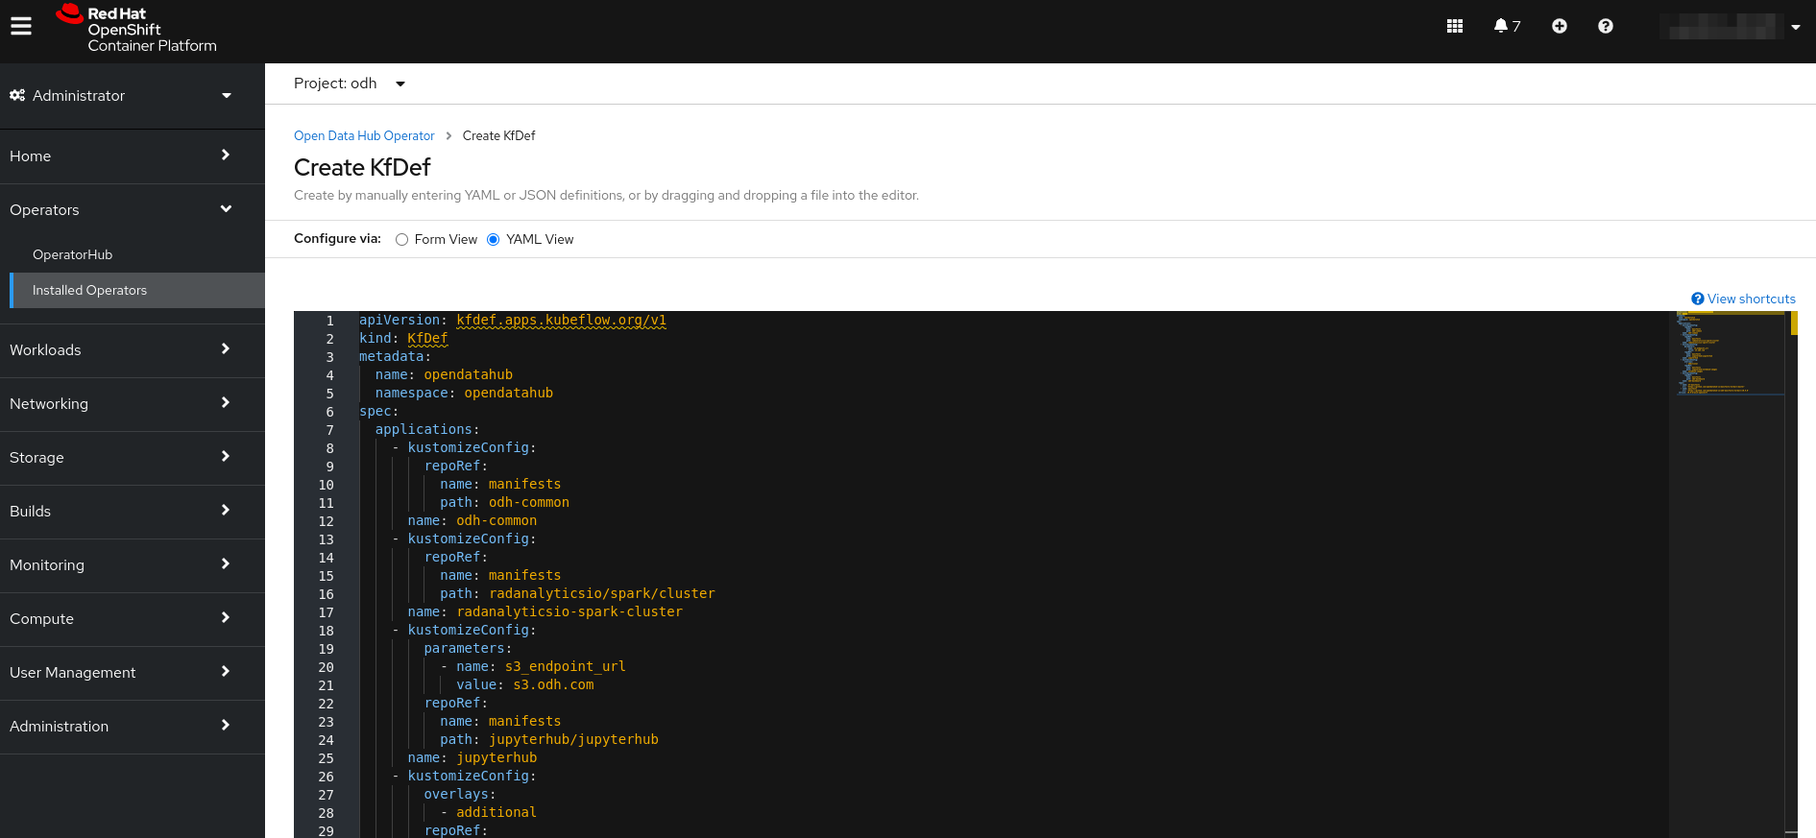
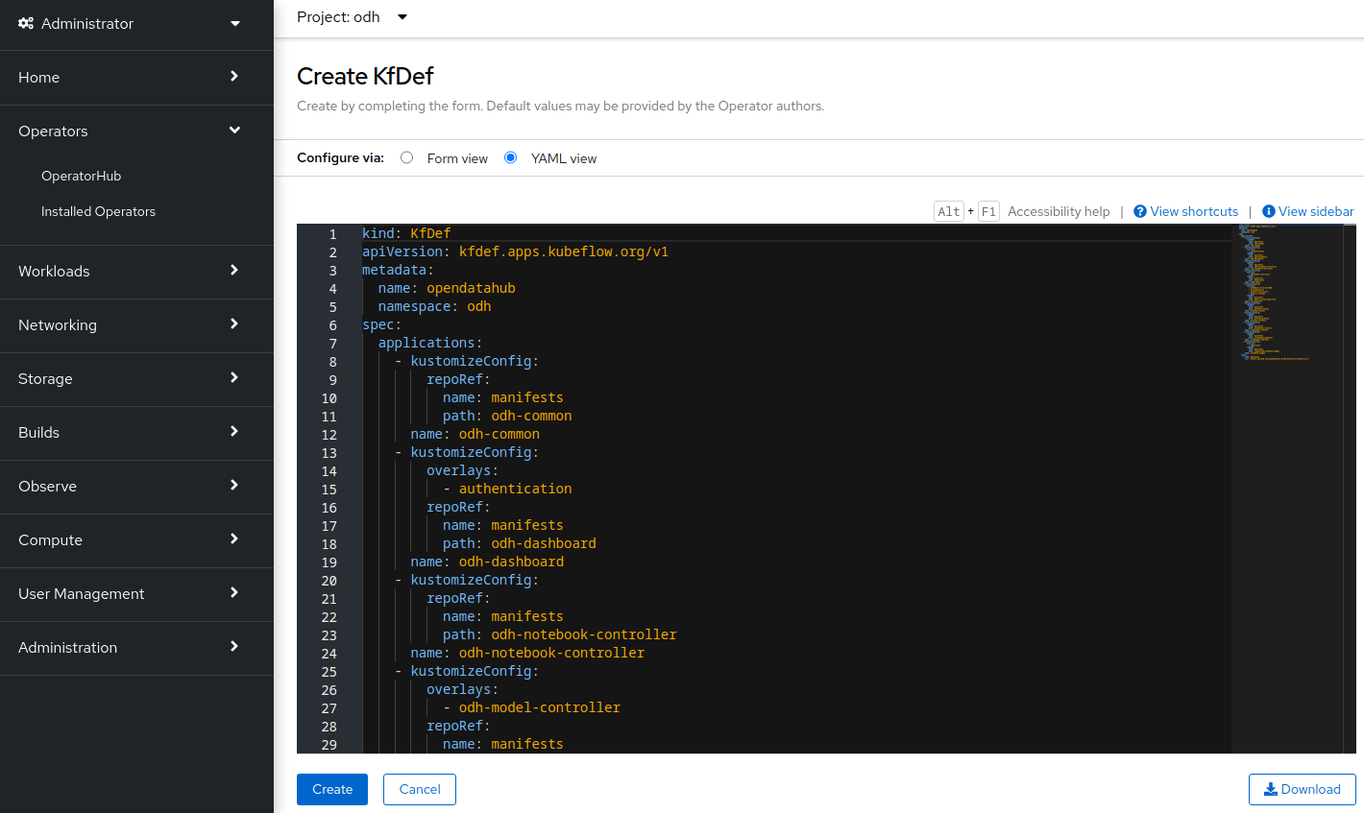
Update documentation for ODH Core release

diff --git a/pages/docs/architecture.md b/pages/docs/architecture.md
@@ -16,9 +16,9 @@ The first phase of an AI workflow is initiated by Data Engineers that acquire th
 
 **Red Hat® OpenShift®  Container Platform**  is the leading Kubernetes based container platform providing multiple functionalities for successfully running distributed AI workloads. Functionalities such as high availability and self-healing, scaling, security, resource management and operator framework are essential to successfully providing AI/ML services. OpenShift also also supports specialized hardware such as GPUs.
 
-**Open Data Hub**(ODH) currently provides services on OpenShift for AI data services such as data storage and ingestion/transformation. For data storage and availability, ODH provides [Ceph](https://ceph.com/), with multi protocol support including block, file and S3 object API support, both for persistent storage within the containers and as a scalable object storage data lake that AI applications can store and access data from . Rook operator can be used to easily deploy and integrate Ceph into the OpenShift and ODH ecosystem
+**Open Data Hub**(ODH) currently provides services on OpenShift for AI data services such as data storage and ingestion/transformation. For data storage and availability, ODH integrates seamlessly with Object Storage provider ([OpenShift Data Foundation](https://www.redhat.com/en/technologies/cloud-computing/openshift-data-foundation), [Minio](https://min.io), AWS S3, ...) that exists in the [Hybrid Cloud](https://www.redhat.com/en/topics/cloud-computing/what-is-hybrid-cloud) or on-premise. 
 
-Open Data Hub also provides services for model creation, training and validation. Apache Spark™([https://spark.apache.org/](https://spark.apache.org/)) operator is provided as part of ODH installation for distributed data ingestion, transformation and model functionalities running natively on OpenShift. For the Data Scientist development environment, ODH provides Jupyter Hub and Jupyter Notebook images running natively distributed on OpenShift. ODH roadmap includes tools for monitoring services as discussed in the section below. These tools will include the ability for natively monitoring AI services and served models on OpenShift using Prometheus and Grafana.
+Open Data Hub also provides services for model creation, training and validation. For the Data Scientist development environment, ODH provides Jupyter Notebook images running natively distributed on OpenShift. ODH roadmap includes tools for monitoring services as discussed in the section below. These tools will include the ability for natively monitoring AI services and served models on OpenShift using Prometheus and Grafana.
 
 ##  Open Data Hub Platform
 
@@ -28,14 +28,12 @@ Open Data Hub platform is a centralized self-service solution for analytic and d
 
 #### End-to-End Considerations
 
-ODH project’s main goal is to provide an open source end-to-end AI platform on OpenShift Container Platform that is equipped to run large AI/ML distributed workloads. As discussed earlier an end-to-end AI platform includes all phases of AI processing starting from data ingestion all the way to production AI/ML hosting and monitoring. There are multiple user personas for this platform that work on different phases. Figure 2  displays a high level architecture diagram of ODH as an end-to-end AI platform running on OpenShift Container platform.
+ODH project’s main goal is to provide an open source end-to-end AI platform on OpenShift Container Platform that is equipped to run large AI/ML distributed workloads. As discussed earlier an end-to-end AI platform includes all phases of AI processing starting from data ingestion all the way to production AI/ML hosting and monitoring. There are multiple user personas for this platform that work on different phases.
 
 
 
 All the tools and components listed below are currently being used as part of Red Hat’s internal ODH platform cluster. This internal cluster is utilized by multiple internal teams of data scientists running AI/ML workloads for functions such as Anomaly Detection and Natural Language Processing. A subset of these components and tools are included in the ODH release available today and the rest are scheduled to be integrated in future releases as described in the roadmap section below. Support for each component is provided by the source entity, for example Red Hat supports Red Hat components such as OpenShift Container Platform and Ceph while open source communities support Seldon, Jupyterhub, Prometheus and so on.
 
-**Figure 2: End-to-End Reference AI Architecture on OpenShift**
-![End-to-End Reference AI Architecture on OpenShift]({{ '/assets/img/pages/arch/figure-2.png' | prepend: site.baseurl }} "End-to-End Reference AI Architecture on OpenShift")
 
 
 **Data in Motion** is essential in today's enterprise backend networks where data resides in multiple locations, especially to support data stored in legacy systems. Hybrid Cloud architectures also require sharing data between different cloud systems. Tools such as Red Hat AMQ Streams, Kafka and Logstash provide robust and scalable data transfer capabilities native to the OpenShift platform. Data Engineers can use these tools to transfer required data from multiple sources.
@@ -83,23 +81,17 @@ All the tools and components listed below are currently being used as part of Re
 The ODH platform is installed on OpenShift as a native operator and is available on the OperatorHub.io. The operator framework ([https://operatorhub.io/getting-started](https://operatorhub.io/getting-started)) is an open source toolkit that provides effective, scalable and automated native application management. Operators manage custom resources that provide specific cluster wide functionalities. The ODH operator manages the ODH platform AI/ML services cluster-wide. Some of the components within the ODH platform are also operators such as Apache Spark™. Currently ,when installing the ODH operator it includes the following components: Ceph, Apache Spark, Jupyterhub, Prometheus and Grafana.
 
 
-**Apache Spark™** operator is an open source operator implementation of Apache Spark™. It is developed as part of the Radanalytics community ([https://radanalytics.io/](https://radanalytics.io/)) to provide distributed Spark cluster workloads on OpenShift. This implementation creates a Spark cluster with master and worker/executor processes. Applications send tasks to executors using the SparkContext and these executors run the tasks on the cluster nodes they are assigned to. Distributed parallel execution as provided by Spark clusters are typical and essential for the success of AI/ML workloads.
-
-
-**JupyterHub** ([https://jupyter.org/hub](https://jupyter.org/hub)) is an open source multi-user notebook platform that ODH provides with multiple notebook image streams that incorporate embedded features such as Spark libraries and connectors. JupyterHub provides many features such as multi-user experience for data scientists allowing them to run notebooks in their own workspaces. Authentication can also be customized as a pluggable component to support authentication protocols such as OAuth. Data scientists can use familiar tools such as Jupyter notebooks for developing complex algorithms and models. Frameworks such as numpy, scikit-learn, Tensorflow and more are available for use.
+**Jupyter Notebook w/ JupyterLab UI** ([https://jupyter.org/hub](https://jupyter.org)) is an open source notebook platform that ODH provides with multiple notebook image streams that incorporate embedded AI/ML libraries. Jupyter Notebooks also provide many features such as for data scientists allowing them to run notebooks in their own workspaces in a multi-tenant environment. Authentication can also be customized as a pluggable component to support authentication protocols such as OAuth. Data scientists can use familiar tools such as Jupyter notebooks for developing complex algorithms and models. Frameworks such as Tensorflow, PyTorch and more are available for use.
 
 
 **Prometheus** ([https://prometheus.io/](https://prometheus.io/)) is an open source monitoring and alerting tool that is widely adopted across many enterprises. Prometheus can be configured to monitor targets by scraping or pulling metrics from the target’s HTTP endpoint and storing the metric name and a set of key-value pairs in a time series database. For graphing or querying this data, Prometheus provides a web portal with rudimentary options to list and graph the data. It also provides an endpoint for more powerful visualization tools such as Grafana to query the data and create graphs. An Alert Manager is also available to create alert rules to produce alerts on specific metric conditions.
 
 **Grafana** ([https://grafana.com/](https://grafana.com/)) is an open source tool for data visualization and monitoring. Data sources such as Prometheus can be added to Grafana for metrics collection. Users create Dashboards that include comprehensive  graphs or plots of specific metrics. It includes powerful visualization capabilities for graphs, tables, and heatmaps. Ready-made dashboards for different data types and sources are also available giving Grafana users a head start. It also has support for a wide variety of plugins so that users can incorporate community-powered visualisation tools for things such as scatter plots or pie charts.
 
-**Argo** ([https://argoproj.github.io/](https://argoproj.github.io/)) is an open source container-native workflow engine for orchestrating parallel jobs on Kubernetes.  It is useful for defining workflows using containers, running computer intensive jobs, and running CI/CD pipelines natively on Kubernetes.
 
-**Apache Kafka** ([https://kafka.apache.org/](https://kafka.apache.org/) is a distributed streaming platform for publishing and subscribing records as well as storing and processing streams of records.  It is deployed on ODH using **Strimzi** ([https://strimzi.io](https://strimzi.io)) a community supported operator.
 
 **Seldon** ([https://www.seldon.io](https://www.seldon.io))  is an open source framework that makes it easier to deploy AI/ML models on Kubernetes and OpenShift. The model can be created and trained using many tools such as Apache Spark, scikit-learn and TensorFlow. Seldon also provides metric for Prometheus scraping. Metrics can be custom model metrics or Seldon core system metrics. 
 
-**BeakerX** ([http://beakerx.com/](http://beakerx.com/)) is an extension to Jupyter Notebooks that includes tools for plotting, creating tables and forms and many more.
 
 {% include next-link.html label="Landscape" url="/docs/landscape.html" %}
 

diff --git a/pages/docs/getting-started/beta/quick-installation.md b/pages/docs/getting-started/beta/quick-installation.md
@@ -6,22 +6,20 @@ style_class: quick-installation
 ---
 ### Pre-requisites
 
-Installing Open Data Hub requires OpenShift Container Platform version 4.2+. Documentation for OpenShift is located ([here](https://docs.openshift.com/container-platform/4.5/welcome/index.html)). All screenshots and instructions are from OpenShift 4.5.  For the purposes of this quick start, we used [try.openshift.com](https://try.openshift.com/) on AWS.  Tutorials have also been tested on [Code Ready Containers](https://code-ready.github.io/crc/) (CRC) with cluster resources [configured](https://code-ready.github.io/crc/#configuring-the-virtual-machine_gsg) for 6 CPUS and 16GB of RAM.
-
-We will not be installing optional components such as Argo, Seldon, or Kafka to avoid using too many resources in case your cluster is small.
+Installing Open Data Hub requires OpenShift Container Platform version 4.8+. All screenshots and instructions are from OpenShift 4.10.  For the purposes of this quick start, we used [try.openshift.com](https://try.openshift.com/) on AWS.  Tutorials will require an OpenShift cluster with a minimum of 16 CPUS and 32GB of memory across all OpenShift worker nodes.
 
 ### Installing the Open Data Hub Operator
 
 The Open Data Hub operator is available for deployment in the OpenShift OperatorHub as a Community Operators. You can install it from the OpenShift web console by following the steps below:
 
-1. From the OpenShift web console, log in as a user with `cluster-admin` privileges.  For a developer installation from [try.openshift.com](https://try.openshift.com/) including AWS and CRC, the `kubeadmin` user will work.
+1. From the OpenShift web console, log in as a user with `cluster-admin` privileges.  For a developer installation from [try.openshift.com](https://try.openshift.com/), the `kubeadmin` user will work.
 ![Log in to OpenShift]({{site.baseurl}}/assets/img/pages/docs/quick-installation/login.png "Log in to OpenShift")
 1. Create a new namespace named 'odh' for your installation of Open Data Hub.
 ![Create Namespace 'odh']({{site.baseurl}}/assets/img/pages/docs/quick-installation/create-namespace.png "Create Namespace 'odh'")
 1. Find `Open Data Hub` in the `OperatorHub` catalog.
    1. Select the new namespace if not already selected.
    1. Under `Operators`, select `OperatorHub` for a list of operators available for deployment.
-   1. Filter for `Open Data Hub` or look under `Big Data` for the icon for `Open Data Hub`.
+   1. Filter for `Open Data Hub` or look under `AI/Machine Learning` for the icon for `Open Data Hub`.
 ![OperatorHub]({{site.baseurl}}/assets/img/pages/docs/quick-installation/operator-hub.png "OperatorHub")
 1. Click the `Install` button and follow the installation instructions to install the Open Data Hub operator.
 ![Install]({{site.baseurl}}/assets/img/pages/docs/quick-installation/install.png "Install")
@@ -54,7 +52,7 @@ The Open Data Hub operator will create new Open Data Hub deployments and manage 
       apiVersion: kfdef.apps.kubeflow.org/v1
       kind: KfDef
       metadata:
-        # The name of your deployment
+        # The name of your kfdef object in OpenShift
         name: opendatahub
       # only the components listed in the `KFDef` resource will be deployed:
       spec:
@@ -65,21 +63,20 @@ The Open Data Hub operator will create new Open Data Hub deployments and manage 
                 name: manifests
                 path: odh-common
             name: odh-common
-          # Deploy Radanalytics Spark Operator
+          # Deploy ODH Dashboard w/ authentication enabled
+          - kustomizeConfig:
+              overlays:
+              - authentication
+              repoRef:
+                name: manifests
+                path: odh-dashboard
+            name: odh-dashboard
+          # Deploy ODH Notebook Controller
           - kustomizeConfig:
               repoRef:
                 name: manifests
-                path: radanalyticsio/spark/cluster
-            name: radanalyticsio-spark-cluster
-          # Deploy Open Data Hub JupyterHub
-          - kustomizeConfig:
-              parameters:
-                - name: s3_endpoint_url
-                  value: s3.odh.com
-              repoRef:
-                name: manifests
-                path: jupyterhub/jupyterhub
-            name: jupyterhub
+                path: odh-notebook-controller
+            name: odh-notebook-controller
           # Deploy addtional Open Data Hub Jupyter notebooks
           - kustomizeConfig:
               overlays:
@@ -88,21 +85,39 @@ The Open Data Hub operator will create new Open Data Hub deployments and manage 
                 name: manifests
                 path: jupyterhub/notebook-images
             name: notebook-images
+          # Deploy Model Mesh
+          - kustomizeConfig:
+              overlays:
+                - odh-model-controller
+              repoRef:
+                name: manifests
+                path: model-mesh
+            name: model-mesh
+          # Deploy Data Science Pipeline w/ standalone UI
+          - kustomizeConfig:
+              overlays:
+                - metadata-store-mariadb
+                - ds-pipeline-ui
+                - object-store-minio
+                - default-configs
+              repoRef:
+                name: manifests
+                path: data-science-pipelines
+            name: data-science-pipelines
         # Reference to all of the git repo archives that contain component kustomize manifests
         repos:
-          # Official Open Data Hub v0.9.0 component manifests repo
-          # This shows that we will be deploying components from an archive of the odh-manifests repo tagged for v0.9.0
+          # Official Open Data Hub v1.4 component manifests repo
+          # This shows that we will be deploying components from an archive of the odh-manifests repo tagged for v1.4.0
           - name: manifests
-            uri: 'https://github.com/opendatahub-io/odh-manifests/tarball/v0.9.0'
-        version: v0.9-branch-openshift
+            uri: 'https://github.com/opendatahub-io/odh-manifests/tarball/v1.4'
       ```
 
-1. Update the `spec` of the resource to match the above and click `Create`.  If you accepted the default name, this will trigger the creation of an Open Data Hub deployment named `opendatahub` with JupyterHub and Spark.
+1. Update the `spec` of the resource to match the above and click `Create`.  If you accepted the default name, this will trigger the creation of an Open Data Hub kfdef object named `opendatahub` and start the rollout of the [ODH Core components]({{site.baseurl}}/docs/tiered-components.html).
 
 1. Verify the installation by viewing the Open Data Hub tab within the operator details.  You Should see `opendatahub` listed.
 ![ODH List]({{site.baseurl}}/assets/img/pages/docs/quick-installation/odh-list.png "ODH List")
 
-1. Verify the installation by viewing the project workload.  JupyterHub and Spark Operator should be running.
+1. Verify the installation by viewing the project workload.  The [ODH Core components]({{site.baseurl}}/docs/tiered-components.html) should be running.
 ![Verify Status]({{site.baseurl}}/assets/img/pages/docs/quick-installation/verify-install.png "Verify Status")
 
-{% include next-link.html label="Basic Tutorial" url="/docs/getting-started/basic-tutorial.html" %}
+{% include next-link.html label="Administration" url="/docs/administration/installation-customization/customization.html" %}

diff --git a/pages/docs/administration/installation-customization/customization.md b/pages/docs/administration/installation-customization/customization.md
@@ -8,7 +8,7 @@ This document explains the preferred way of customizing Open Data Hub and Kubefl
 
 ## How to Customize the Installation
 
-There are essentially three ways to customize the deployment. All of them will involve working with git and [odh-manifests](https://github.com/opendatahub-io/odh-manifests) repository.
+There are essentially three ways to customize the deployment. All of them will involve working with [kustomize](https://kustomize.io/), the [odh-manifests](https://github.com/opendatahub-io/odh-manifests) repository and a [GitOps](https://www.redhat.com/en/topics/devops/what-is-gitops) workflow
 
 * Fork odh-manifests and maintain changes there
 * Create your own manifests repository to overwrite the component resources
@@ -23,32 +23,10 @@ We will only discuss the last one (overlays) here, since that is the one we prom
 
 Overlays provide a great way to offer an optional customization to a component. It allows you to modify or delete/exclude existing resources or add new ones. You can simply enable and disable overlays in KFDef custom resource by adding to or removing them from overlays list at the component level. 
 
-The way overlays generally work in the context of Open Data Hub manifests is that they add another layer on top of the `base` resources for the component. This layer can leverage any of the Kustomize functionality to extend the `base`. We provide many overlays across the odh-manifests repository. Some of them add resources (e.g. [build configurations](https://github.com/opendatahub-io/odh-manifests/tree/master/jupyterhub/jupyterhub/overlays/build)), some of them modify resources to customize the deployment for a specific environment (e.g. [parameterizing a storage class](https://github.com/opendatahub-io/odh-manifests/tree/master/jupyterhub/jupyterhub/overlays/storage-class)).
+The way overlays generally work in the context of Open Data Hub manifests is that they add another layer on top of the `base` resources for the component. This layer can leverage any of the Kustomize functionality to extend the `base`. We provide many overlays across the odh-manifests repository. Some of them add resources (e.g. [deploying custom database storage](https://github.com/opendatahub-io/odh-manifests/tree/master/data-science-pipelines/overlays/metadata-store-mariadb)) and others can modify resources to customize the deployment for a specific environment (e.g. [enabling oauth authentication in the dashboard](https://github.com/opendatahub-io/odh-manifests/tree/master/odh-dashboard/overlays/authentication)).
 
 Overlays add a bit of complexity and it takes a bit of learning to become productive when using them, but it is well worth due to the flexibility and long term maintainablity you gain by leveraging them for your customizations.
 
-#### Example
+If you need additional examples of kustomize overlays, please read the kubernetes documentation on kustomize manifests [Bases and Overlays](https://kubernetes.io/docs/tasks/manage-kubernetes-objects/kustomization/#bases-and-overlays)
 
-The example for the overlays approach can be found in [odh-manifests-overlays](https://github.com/vpavlin/odh-manifests-overlays) repository. At a first sight it looks like a copy of odh-manifests repository - it also shares its Git history.
-
-It has one commit in addition which adds an [overlay to JupyterHub component](https://github.com/vpavlin/odh-manifests-overlays/commit/HEAD). This overlay modefies a JupyterHub ConfigMap and adds an additional JupyterHub Singleuser Profiles ConfigMap.
-
-To test this out, you will need [Open Data Hub operator deployed]({{site.baseurl}}/docs/getting-started/quick-installation.html). Then you can simply upload the [customized KFDef resource]() to the cluster.
-
-```
-oc apply -f https://raw.githubusercontent.com/vpavlin/odh-manifests-overlays/master/kfdef/kfctl_openshift_custom.yaml
-```
-
-You should see the customized ConfigMap appearing in the cluster in a bit.
-
-```
-oc describe cm jupyterhub-cfg
-```
-
-You can also view the added ConfigMap by running the following command.
-
-```
-oc describe cm jupyterhub-additional-singleuser-profiles
-```
-
-{% include next-link.html label="Advanced Installation" url="/docs/administration/advanced-installation/optional.html" %}
+{% include next-link.html label="Advanced Installation" url="/docs/administration/advanced-installation/gpu.html" %}

diff --git a/pages/docs/administration/advanced-installation/gpu.md b/pages/docs/administration/advanced-installation/gpu.md
@@ -4,35 +4,17 @@ title: GPU Enablement
 permalink: /docs/administration/advanced-installation/gpu
 ---
 Open Data Hub has support for accessing NVIDIA GPUs from Jupyter notebooks. Currently,
-the Open Data Hub team has verified that JupyterHub can successfully access the GPU in OpenShift 4.2+ clusters.
+the Open Data Hub team has verified that ODH Core Jupyter notebooks can successfully access the GPU in OpenShift 4.8+ clusters.
 
 
 ### Prerequisites
 *   OpenShift cluster with GPU(s) enabled
 
-    *   Enabling GPUs in OpenShift 4.2+ can be achieved by deploying Node Feature Discovery (NFD) Operator and NVIDIA GPU Operator. Please follow NVIDIA GPU OpenShift installation instructions [here](https://docs.nvidia.com/datacenter/kubernetes/openshift-on-gpu-install-guide/) and refer to the section on Red Hat entitlements if you encounter errors related to `dnf` package installation errors. If you encounter any issue related to this operator, please check your issue against the list open bugs in [bugzilla](https://bugzilla.redhat.com/buglist.cgi?bug_status=__open__&classification=Red%20Hat&component=Special%20Resource%20Operator&list_id=11632255&product=OpenShift%20Container%20Platform&query_format=advanced) for the NVIDIA GPU operator running on OpenShift.
+    *   Enabling GPUs in OpenShift 4.8+ can be achieved by deploying the NVIDIA GPU Operator from the OpenShift OperatorHub. Please follow NVIDIA GPU OpenShift installation instructions [here](https://docs.nvidia.com/datacenter/cloud-native/gpu-operator/openshift/contents.html). If you encounter any issue related to this operator, please check your issue against the list open issues in NVIDIA [gpu-operator](https://github.com/NVIDIA/gpu-operator/issues) repository.
 
         The [Node Feature Discovery](https://github.com/openshift/cluster-nfd-operator) operator is responsible for discovering and labeling hardware (GPU(s) in this case) features available on each node.
         The [NVIDIA GPU Operator](https://github.com/NVIDIA/gpu-operator) will setup and install the necessary drivers to enable the use of GPU(s) as compute resource.
 
-
-### Configuring the JupyterHub component
-
-To properly configure the `jupytherhub` component to use GPUs, please enable `cuda` images by uncommenting the `cuda` overlay in the `KFDef` file as seen below.
-```
-- kustomizeConfig:
-    overlays:
-    - cuda
-    - additional
-    repoRef:
-      name: manifests
-      path: jupyterhub/notebook-images
-  name: notebook-images
-```
-
-These settings will deploy a set of `BuildConfigs` which prepare **CUDA enabled Python s2i images** which are then used for building `s2i-tensorflow-notebook-gpu` image available in JupyterHub Spawner UI. This image has Tensorflow GPU pre-installed and enables users to leverage GPUs available in a cluster with the Tensorflow library.
-
-NOTE: Building the cuda container and GPU notebook images may take 2-3hrs based on available cluster resources
 
 ### Verifying GPU Availability
 To spawn a Jupyter Notebook with GPU support, set the `GPU` field to a number greater than 0.  From inside the notebook, run the following command to verify it's availability.
